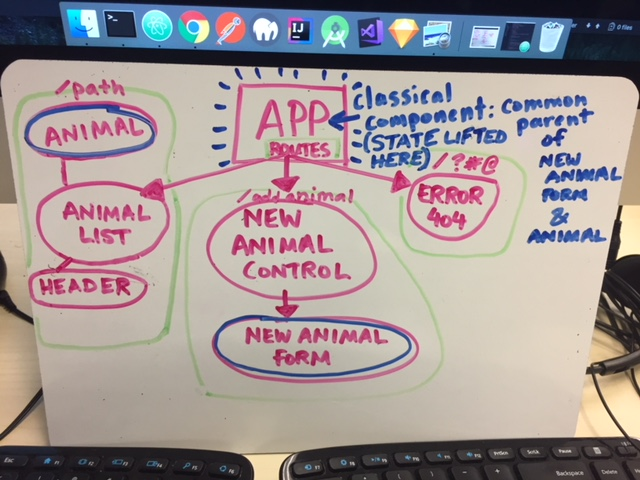
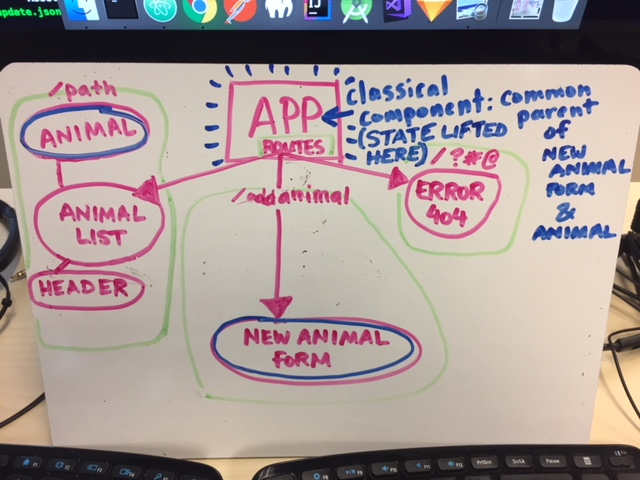
remove animal control component because my app does not include that particular conditional rendering

diff --git a/src/components/AddAnimal.jsx b/src/components/AddAnimal.jsx
@@ -1,7 +1,7 @@
 import React from 'react';
 import { Link } from 'react-router-dom';
 
-function AddAnimal(props) {
+function AddAnimalForm(props) {
   const addAnimalStyles = {
     display: 'flex',
     flexDirection: 'column',
@@ -58,4 +58,4 @@ function AddAnimal(props) {
   );
 }
 
-export default AddAnimal;
+export default AddAnimalForm;

diff --git a/src/components/App.jsx b/src/components/App.jsx
@@ -1,6 +1,6 @@
 import React from 'react';
 import AnimalList from './AnimalList';
-import AddAnimal from './AddAnimal';
+import AddAnimalForm from './AddAnimalForm';
 import { Switch, Route } from 'react-router-dom';
 import Error404 from './Error404';
 

diff --git a/README.md b/README.md
@@ -40,7 +40,7 @@ Additionally, the previous component tree was less based on data and instead bas
 
 Here is the updated component tree that accurately respresents the state and how it relates to other components within the app:
 
-![](updated-component-tree.jpg)
+![](updated-component-tree.JPG)
 
 #### My thoughts on the differences in development between Angular and React (2/9/28):
 
